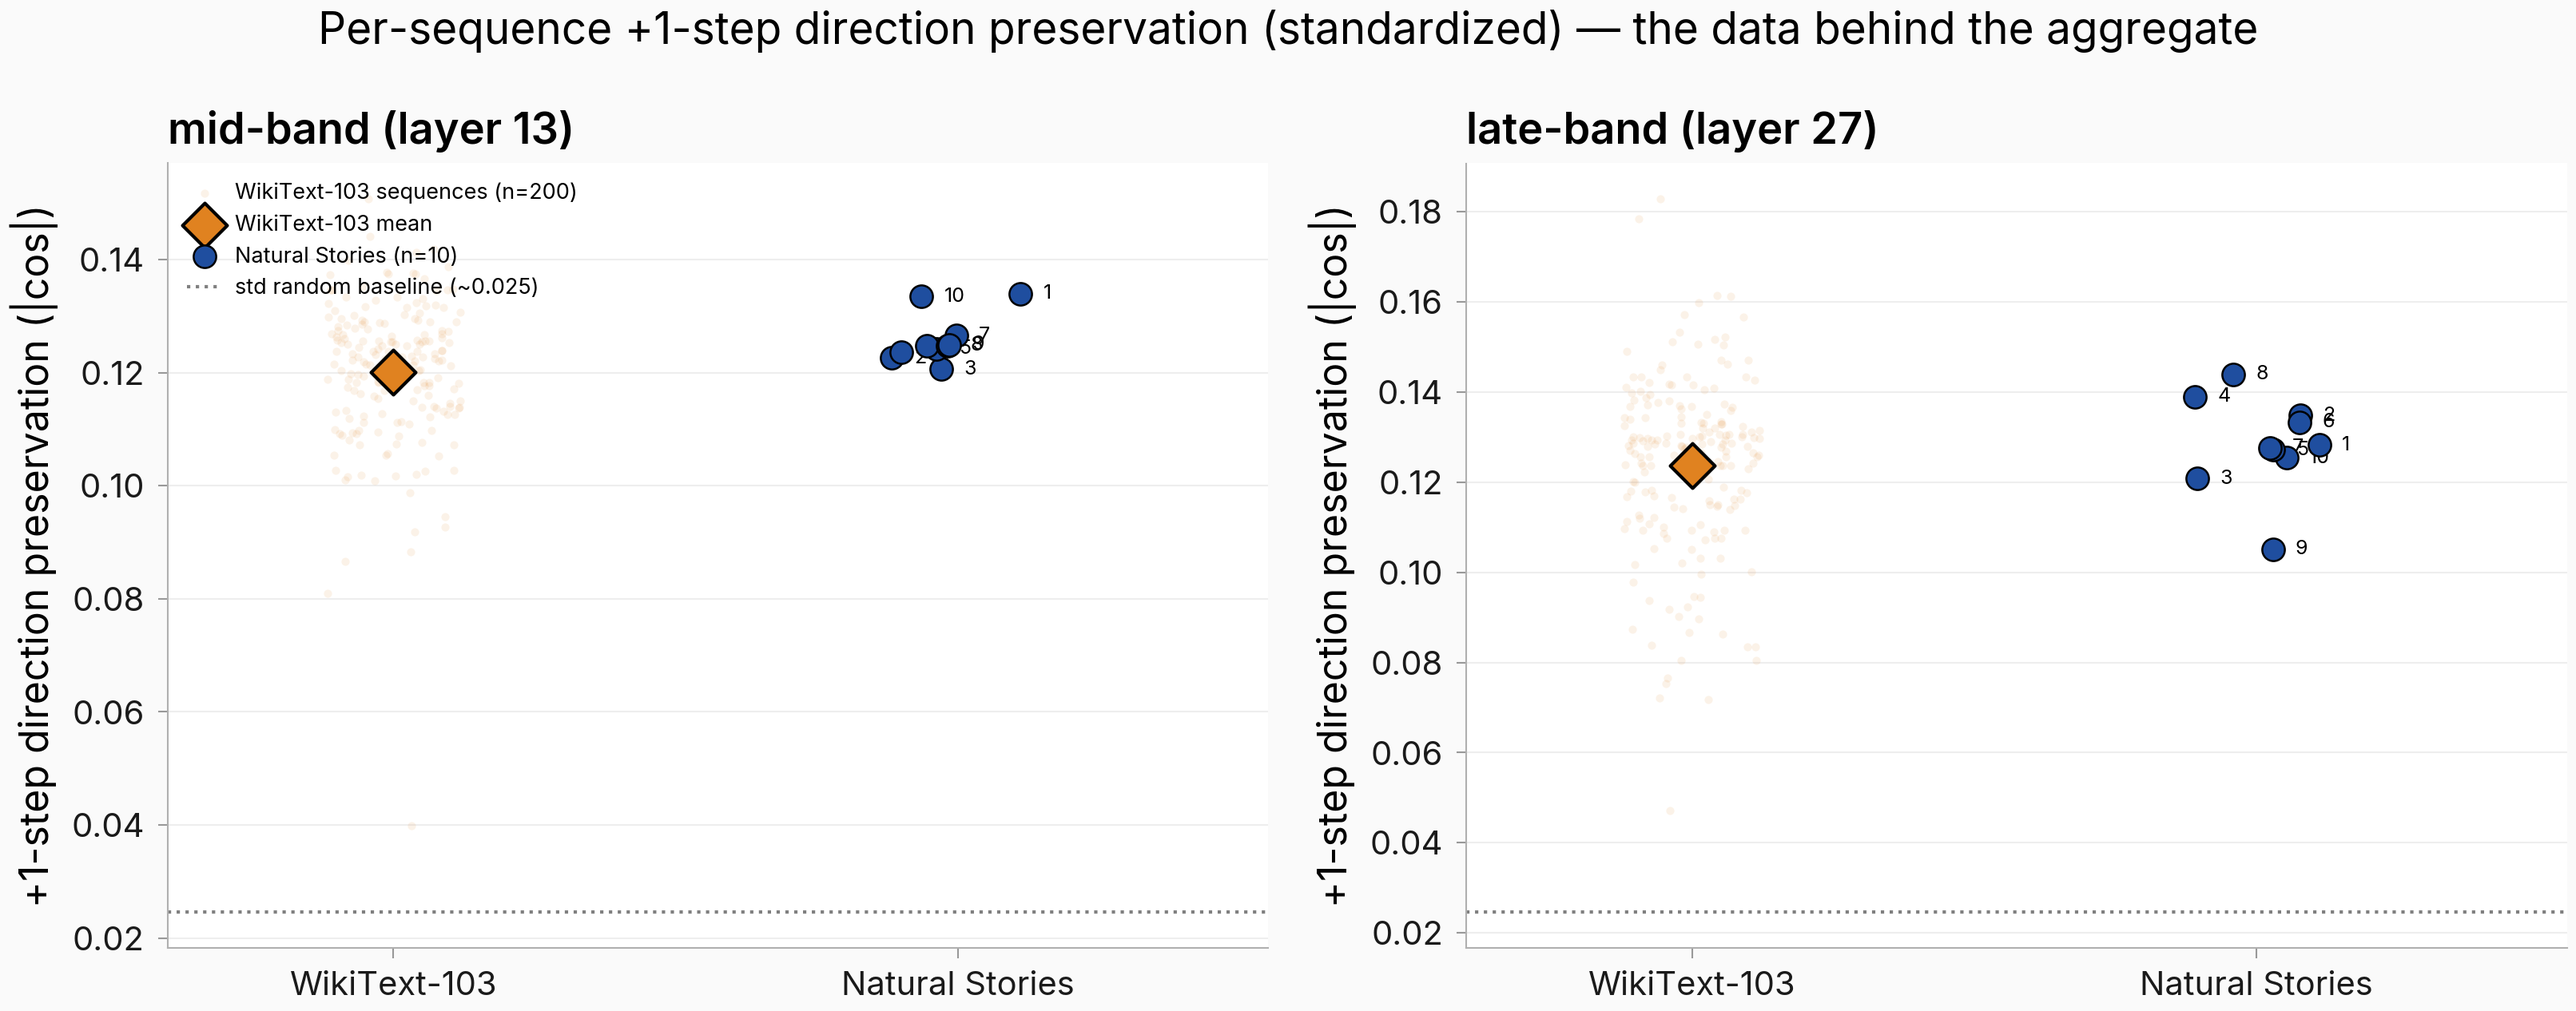
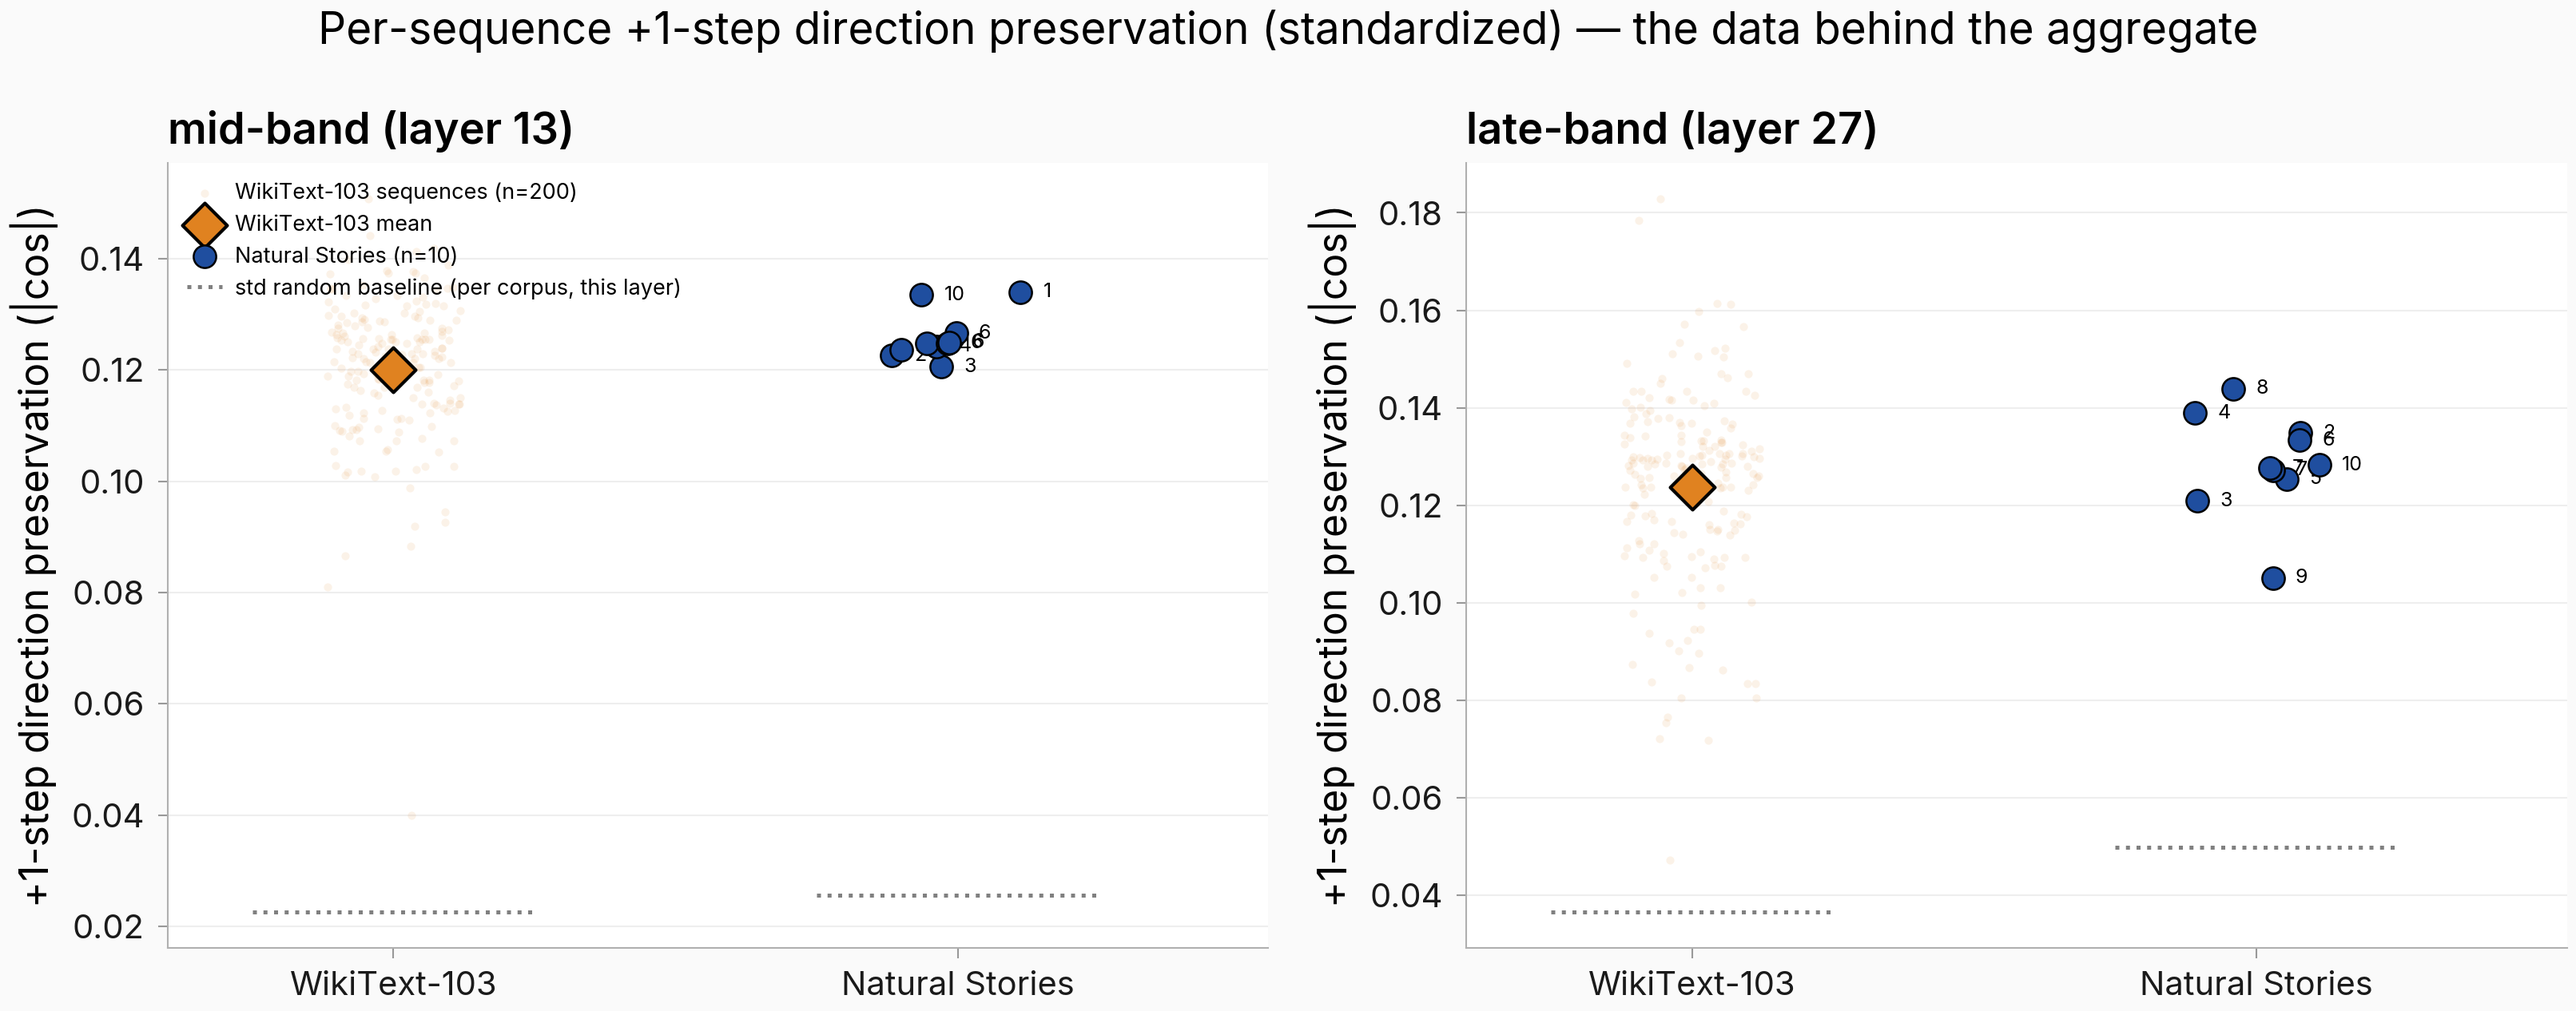
issue-744 r3: Fig-4 per-(corpus,layer) std baseline (fig4-baseline-flat-at-late-layer)
Replace the flat 0.0246 std-random-baseline line in the per-sequence scatter
with per-(corpus, layer) std-floor segments matching each panel's labeled layer
(WikiText-103/Natural Stories: L13 0.023/0.026, L27 0.037/0.050), pulled from
random_baseline.json — same correction already on Fig-3. Re-stamps the meta.json
commit field (was stale 594d43ec45).

diff --git a/scripts/issue744_make_figures_supp.py b/scripts/issue744_make_figures_supp.py
@@ -27,6 +27,7 @@ from __future__ import annotations
 
 import argparse
 import csv
+import json
 import sys
 from pathlib import Path
 
@@ -79,8 +80,15 @@ def per_sequence_dp1(
     return out
 
 
-def fig_per_sequence_scatter(dump_dir, stats, fig_dir):
-    """Per-sequence +1 std dir-pres at mid (L13) vs late (L27), NS labeled + broader strip."""
+def fig_per_sequence_scatter(dump_dir, stats, fig_dir, rb=None):
+    """Per-sequence +1 std dir-pres at mid (L13) vs late (L27), NS labeled + broader strip.
+
+    ``rb`` is the parsed ``random_baseline.json``; the std chance floor is
+    per-(corpus, layer), not flat, so each panel draws a short baseline segment
+    over each corpus cluster at that corpus's std floor for the panel's layer
+    (matching the per-layer baseline the hero figure ``h1h2_direction_preservation_p1``
+    draws). The WikiText-103 corpus is keyed ``broader`` in the baseline JSON.
+    """
     layers = [13, 27]
     ns = per_sequence_dp1(dump_dir, stats, "ns_raw", "ns", layers)
     broader = per_sequence_dp1(dump_dir, stats, "broader_raw", "broader", layers)
@@ -88,6 +96,12 @@ def fig_per_sequence_scatter(dump_dir, stats, fig_dir):
     rng = np.random.default_rng(744)
     c_ns = paper_palette_role("primary")
     c_br = paper_palette_role("baseline")
+    rb = rb or {}
+
+    def _std_floor(corpus_key, L):
+        arr = rb.get(corpus_key, {}).get("per_flavor", {}).get("std")
+        return float(arr[L]) if arr and len(arr) > L else None
+
     for ax, L in zip(axes, layers, strict=True):
         # broader strip (jittered, n large)
         bvals = np.array([v for _, v in broader[L]])
@@ -132,7 +146,32 @@ def fig_per_sequence_scatter(dump_dir, stats, fig_dir):
         ax.set_xlim(-0.4, 1.55)
         ax.set_ylabel("+1-step direction preservation (|cos|)")
         ax.set_title(f"{'mid-band' if L == 13 else 'late-band'} (layer {L})")
-        ax.axhline(0.0246, color="gray", ls=":", lw=1.0, label="std random baseline (~0.025)")
+        # Per-(corpus, layer) std chance floor — the floor climbs late (L13
+        # ~0.023/0.026 vs L27 ~0.037/0.050 for WikiText-103/Natural Stories),
+        # so a single flat line would misstate the late panel. Draw a short
+        # segment over each corpus cluster at that corpus's std floor for L.
+        wk_floor = _std_floor("broader", L)
+        ns_floor = _std_floor("natural_stories", L)
+        _labeled = False
+        if wk_floor is not None:
+            ax.plot(
+                [-0.25, 0.25],
+                [wk_floor, wk_floor],
+                color="gray",
+                ls=":",
+                lw=1.2,
+                label="std random baseline (per corpus, this layer)",
+            )
+            _labeled = True
+        if ns_floor is not None:
+            ax.plot(
+                [0.75, 1.25],
+                [ns_floor, ns_floor],
+                color="gray",
+                ls=":",
+                lw=1.2,
+                label=None if _labeled else "std random baseline (per corpus, this layer)",
+            )
         if L == 13:
             ax.legend(fontsize=6.5, loc="upper left")
     fig.suptitle(
@@ -233,7 +272,9 @@ def main() -> int:
     args = ap.parse_args()
     set_paper_style("blog")
     stats = torch.load(args.dump_dir / "population_stats.pt", weights_only=False)
-    fig_per_sequence_scatter(args.dump_dir, stats, args.fig_dir)
+    rb_path = args.analysis_dir / "random_baseline.json"
+    rb = json.loads(rb_path.read_text()) if rb_path.exists() else {}
+    fig_per_sequence_scatter(args.dump_dir, stats, args.fig_dir, rb=rb)
     fig_sink_ratio_depth(args.analysis_dir, args.fig_dir)
     fig_decay_small_multiples(args.analysis_dir, args.fig_dir)
     print("supp figures done ->", args.fig_dir)
